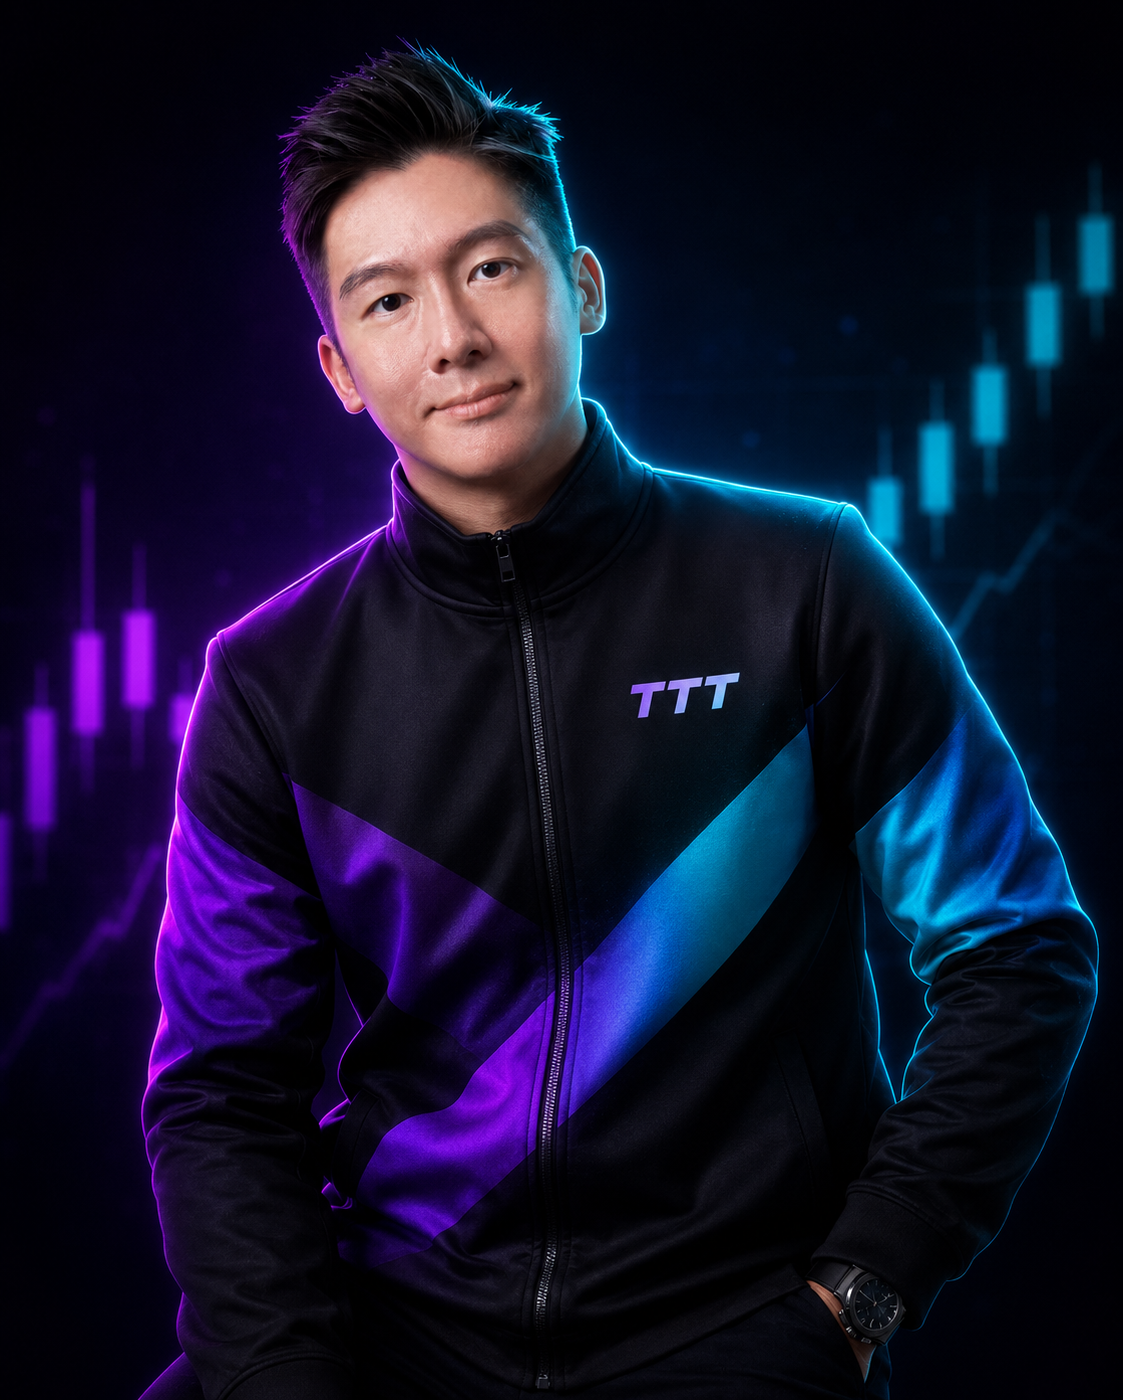
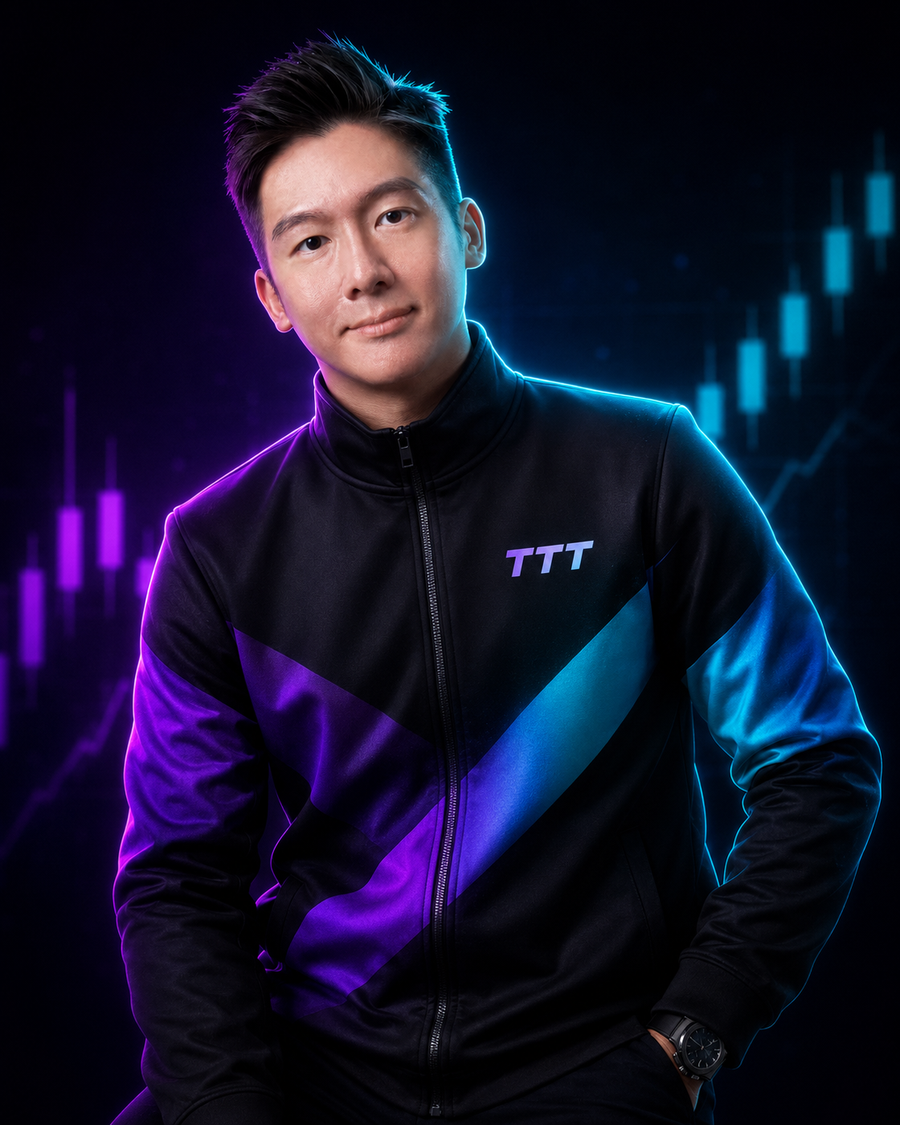
Add files via upload

diff --git a/index.html b/index.html
@@ -264,25 +264,26 @@
     overflow:hidden;
     padding:0;
   }
-  .player-card .glow-ring{
-    position:absolute; top:-40%; left:50%; transform:translateX(-50%);
-    width:320px; height:320px; border-radius:50%;
-    background:radial-gradient(circle, rgba(177,75,255,0.28), transparent 65%);
-    pointer-events:none;
-  }
-  .player-card.cyan .glow-ring{background:radial-gradient(circle, rgba(0,240,255,0.25), transparent 65%);}
   .player-photo-wrap{
     position:relative;
-    display:flex; justify-content:center;
-    padding-top:26px;
+    width:100%;
+    aspect-ratio:4/5;
+    overflow:hidden;
   }
   .player-photo-wrap img{
-    height:280px; width:auto;
-    object-fit:contain;
-    filter:drop-shadow(0 20px 30px rgba(0,0,0,0.5));
+    width:100%; height:100%;
+    object-fit:cover;
+    object-position:center top;
+    display:block;
+  }
+  .player-photo-wrap:after{
+    content:"";
+    position:absolute; inset:0;
+    background:linear-gradient(180deg, transparent 55%, var(--panel) 100%);
+    pointer-events:none;
   }
   .player-tag{
-    position:absolute; top:20px; right:20px;
+    position:absolute; top:20px; right:20px; z-index:2;
     font-family:var(--font-display);
     font-size:10.5px; font-weight:700; letter-spacing:0.08em;
     color:var(--bg); background:var(--cyan);
@@ -543,7 +544,6 @@
     </div>
     <div class="players-grid">
       <div class="player-card">
-        <div class="glow-ring"></div>
         <div class="player-photo-wrap">
           <span class="player-tag">Lead Trainer</span>
           <img src="ben.png" alt="Ben Niam">
@@ -561,7 +561,6 @@
       </div>
 
       <div class="player-card cyan">
-        <div class="glow-ring"></div>
         <div class="player-photo-wrap">
           <span class="player-tag">Trading Lead</span>
           <img src="patrick.png" alt="Patrick">